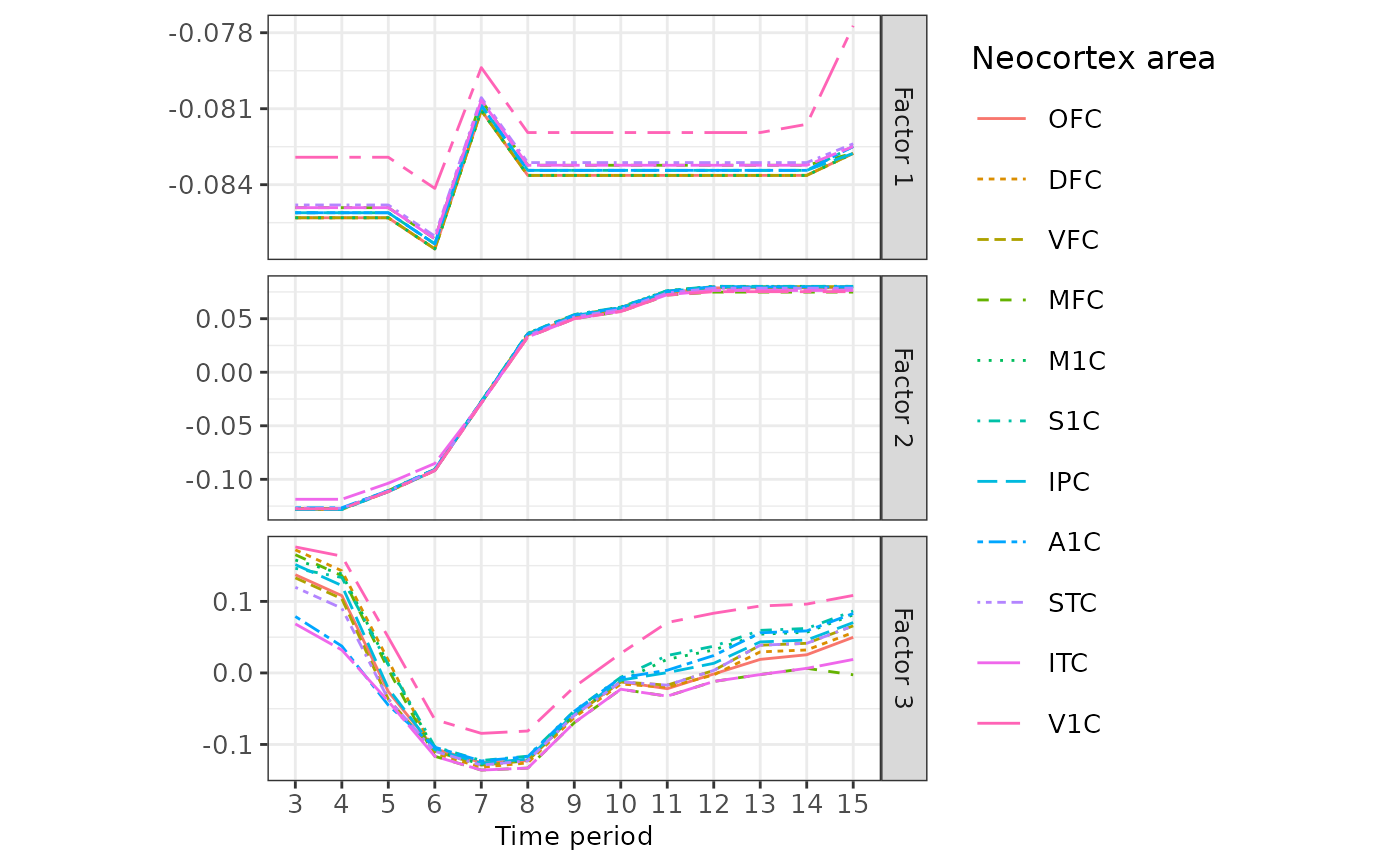
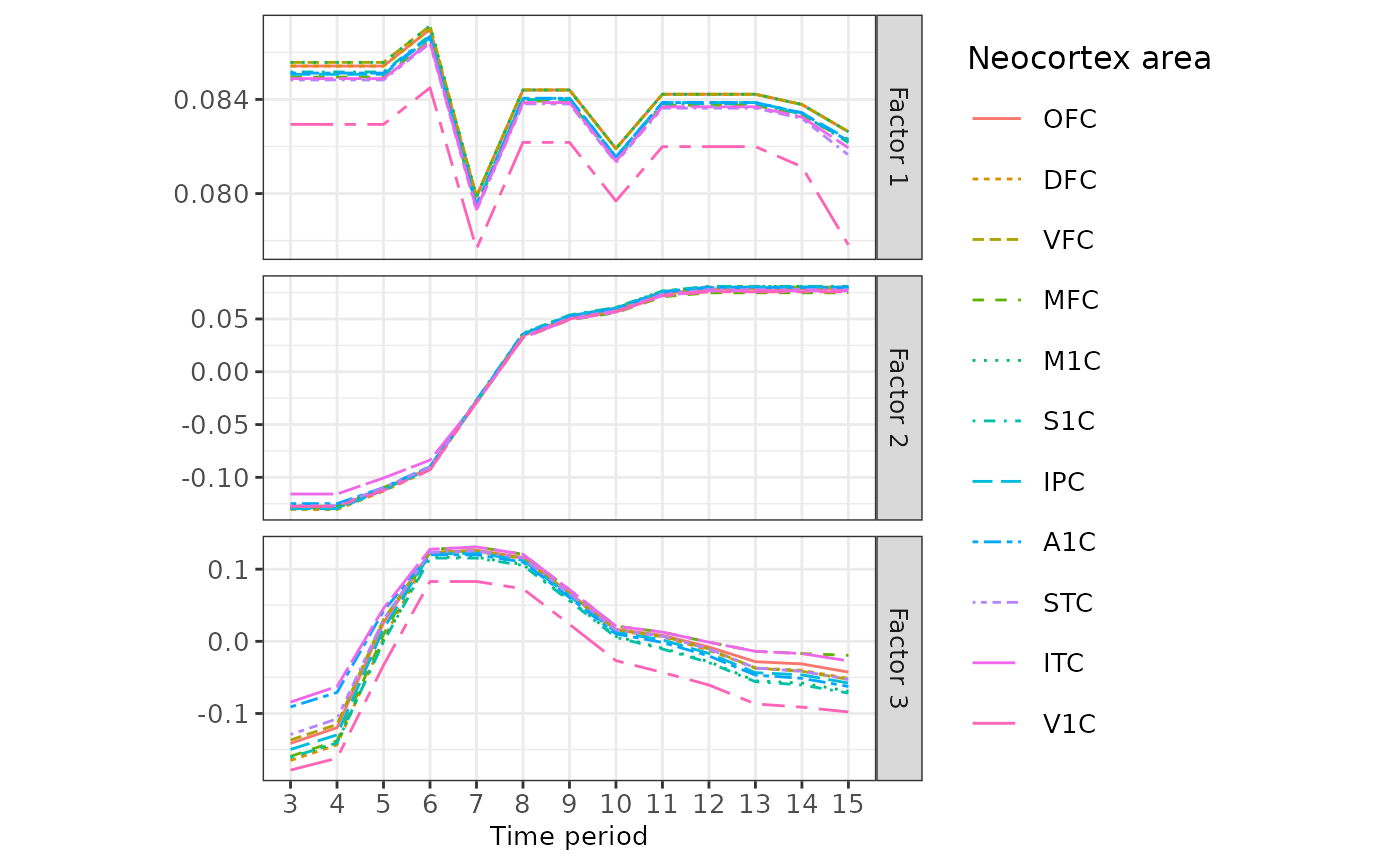
Deploying to gh-pages from @ YangLabHKUST/mfair@6f7311bef72ded86bc2f1662f6d9f4b15cdd251e 🚀

diff --git a/articles/neocortex.html b/articles/neocortex.html
@@ -134,15 +134,15 @@ to fit the MFAI model with top three factors.</p>
 <span><span class="co">#&gt; Set K_max = 3!</span></span>
 <span><span class="co">#&gt; Initialize the parameters of factor 1......</span></span>
 <span><span class="co">#&gt; After 3 iterations Stage 1 ends!</span></span>
-<span><span class="co">#&gt; After 18 iterations Stage 2 ends!</span></span>
+<span><span class="co">#&gt; After 812 iterations Stage 2 ends!</span></span>
 <span><span class="co">#&gt; Factor 1 retained!</span></span>
 <span><span class="co">#&gt; Initialize the parameters of factor 2......</span></span>
 <span><span class="co">#&gt; After 3 iterations Stage 1 ends!</span></span>
-<span><span class="co">#&gt; After 46 iterations Stage 2 ends!</span></span>
+<span><span class="co">#&gt; After 415 iterations Stage 2 ends!</span></span>
 <span><span class="co">#&gt; Factor 2 retained!</span></span>
 <span><span class="co">#&gt; Initialize the parameters of factor 3......</span></span>
 <span><span class="co">#&gt; After 2 iterations Stage 1 ends!</span></span>
-<span><span class="co">#&gt; After 600 iterations Stage 2 ends!</span></span>
+<span><span class="co">#&gt; After 131 iterations Stage 2 ends!</span></span>
 <span><span class="co">#&gt; Factor 3 retained!</span></span></code></pre></div>
 </div>
 <div class="section level2">
@@ -175,13 +175,13 @@ by <span class="math inline">\(\{ F_1 (\cdot) , F_2 (\cdot) , F_3
 <span><span class="fu"><a href="https://rdrr.io/r/base/colnames.html" class="external-link">colnames</a></span><span class="op">(</span><span class="va">FX</span><span class="op">)</span> <span class="op">&lt;-</span> <span class="fu"><a href="https://rdrr.io/r/base/c.html" class="external-link">c</a></span><span class="op">(</span><span class="st">"Neocortex area"</span>, <span class="st">"Time period"</span>, <span class="fu"><a href="https://rdrr.io/r/base/paste.html" class="external-link">paste</a></span><span class="op">(</span><span class="st">"Factor"</span>, <span class="fu"><a href="https://rdrr.io/r/base/c.html" class="external-link">c</a></span><span class="op">(</span><span class="fl">1</span><span class="op">:</span><span class="fl">3</span><span class="op">)</span><span class="op">)</span><span class="op">)</span></span>
 <span><span class="va">FX</span><span class="op">[</span>, <span class="st">"Time period"</span><span class="op">]</span> <span class="op">&lt;-</span> <span class="fu"><a href="https://rdrr.io/r/base/factor.html" class="external-link">factor</a></span><span class="op">(</span><span class="va">FX</span><span class="op">[</span>, <span class="st">"Time period"</span><span class="op">]</span>, levels <span class="op">=</span> <span class="va">stage</span><span class="op">)</span></span>
 <span><span class="fu"><a href="https://rdrr.io/r/utils/head.html" class="external-link">head</a></span><span class="op">(</span><span class="va">FX</span><span class="op">)</span></span>
-<span><span class="co">#&gt;   Neocortex area Time period    Factor 1   Factor 2  Factor 3</span></span>
-<span><span class="co">#&gt; 1            OFC           3 -0.08530621 -0.1275302 0.1373010</span></span>
-<span><span class="co">#&gt; 2            DFC           3 -0.08530621 -0.1281884 0.1720814</span></span>
-<span><span class="co">#&gt; 3            VFC           3 -0.08530621 -0.1279504 0.1329457</span></span>
-<span><span class="co">#&gt; 4            MFC           3 -0.08490720 -0.1272283 0.1652383</span></span>
-<span><span class="co">#&gt; 5            M1C           3 -0.08530621 -0.1277465 0.1578517</span></span>
-<span><span class="co">#&gt; 6            S1C           3 -0.08510786 -0.1277465 0.1462684</span></span></code></pre></div>
+<span><span class="co">#&gt;   Neocortex area Time period   Factor 1   Factor 2   Factor 3</span></span>
+<span><span class="co">#&gt; 1            OFC           3 0.08541967 -0.1276331 -0.1413521</span></span>
+<span><span class="co">#&gt; 2            DFC           3 0.08541967 -0.1304649 -0.1651130</span></span>
+<span><span class="co">#&gt; 3            VFC           3 0.08557500 -0.1288645 -0.1367970</span></span>
+<span><span class="co">#&gt; 4            MFC           3 0.08495108 -0.1271726 -0.1594441</span></span>
+<span><span class="co">#&gt; 5            M1C           3 0.08557500 -0.1288645 -0.1607997</span></span>
+<span><span class="co">#&gt; 6            S1C           3 0.08516765 -0.1288645 -0.1608590</span></span></code></pre></div>
 <div class="sourceCode" id="cb5"><pre class="downlit sourceCode r">
 <code class="sourceCode R"><span><span class="co"># Convert the wide table to the long table</span></span>
 <span><span class="va">FX_long</span> <span class="op">&lt;-</span> <span class="fu"><a href="https://rdrr.io/pkg/reshape2/man/melt.html" class="external-link">melt</a></span><span class="op">(</span></span>
@@ -190,13 +190,13 @@ by <span class="math inline">\(\{ F_1 (\cdot) , F_2 (\cdot) , F_3
 <span>  variable.name <span class="op">=</span> <span class="st">"Factor"</span>, value.name <span class="op">=</span> <span class="st">"F"</span></span>
 <span><span class="op">)</span></span>
 <span><span class="fu"><a href="https://rdrr.io/r/utils/head.html" class="external-link">head</a></span><span class="op">(</span><span class="va">FX_long</span><span class="op">)</span></span>
-<span><span class="co">#&gt;   Neocortex area Time period   Factor           F</span></span>
-<span><span class="co">#&gt; 1            OFC           3 Factor 1 -0.08530621</span></span>
-<span><span class="co">#&gt; 2            DFC           3 Factor 1 -0.08530621</span></span>
-<span><span class="co">#&gt; 3            VFC           3 Factor 1 -0.08530621</span></span>
-<span><span class="co">#&gt; 4            MFC           3 Factor 1 -0.08490720</span></span>
-<span><span class="co">#&gt; 5            M1C           3 Factor 1 -0.08530621</span></span>
-<span><span class="co">#&gt; 6            S1C           3 Factor 1 -0.08510786</span></span></code></pre></div>
+<span><span class="co">#&gt;   Neocortex area Time period   Factor          F</span></span>
+<span><span class="co">#&gt; 1            OFC           3 Factor 1 0.08541967</span></span>
+<span><span class="co">#&gt; 2            DFC           3 Factor 1 0.08541967</span></span>
+<span><span class="co">#&gt; 3            VFC           3 Factor 1 0.08557500</span></span>
+<span><span class="co">#&gt; 4            MFC           3 Factor 1 0.08495108</span></span>
+<span><span class="co">#&gt; 5            M1C           3 Factor 1 0.08557500</span></span>
+<span><span class="co">#&gt; 6            S1C           3 Factor 1 0.08516765</span></span></code></pre></div>
 <div class="sourceCode" id="cb6"><pre class="downlit sourceCode r">
 <code class="sourceCode R"><span><span class="co"># Visualization of F(.)</span></span>
 <span><span class="va">p</span> <span class="op">&lt;-</span> <span class="fu"><a href="https://ggplot2.tidyverse.org/reference/ggplot.html" class="external-link">ggplot</a></span><span class="op">(</span></span>
@@ -233,13 +233,13 @@ by <span class="math inline">\(\{ F_1 (\cdot) , F_2 (\cdot) , F_3
 <span><span class="fu"><a href="https://rdrr.io/r/base/colnames.html" class="external-link">rownames</a></span><span class="op">(</span><span class="va">gene_factors</span><span class="op">)</span> <span class="op">&lt;-</span> <span class="fu"><a href="https://rdrr.io/r/base/colnames.html" class="external-link">colnames</a></span><span class="op">(</span><span class="va">mfairObject</span><span class="op">@</span><span class="va">Y</span><span class="op">)</span> <span class="co"># Assign gene symbols</span></span>
 <span><span class="fu"><a href="https://rdrr.io/r/base/colnames.html" class="external-link">colnames</a></span><span class="op">(</span><span class="va">gene_factors</span><span class="op">)</span> <span class="op">&lt;-</span> <span class="fu"><a href="https://rdrr.io/r/base/paste.html" class="external-link">paste</a></span><span class="op">(</span><span class="st">"Factor"</span>, <span class="fu"><a href="https://rdrr.io/r/base/c.html" class="external-link">c</a></span><span class="op">(</span><span class="fl">1</span><span class="op">:</span><span class="fl">3</span><span class="op">)</span><span class="op">)</span></span>
 <span><span class="fu"><a href="https://rdrr.io/r/utils/head.html" class="external-link">head</a></span><span class="op">(</span><span class="va">gene_factors</span><span class="op">)</span></span>
-<span><span class="co">#&gt;            Factor 1    Factor 2    Factor 3</span></span>
-<span><span class="co">#&gt; DCUN1D2  0.07856363  0.06006969  0.16380535</span></span>
-<span><span class="co">#&gt; ARRB1   -0.27132066  0.06770678 -0.12942443</span></span>
-<span><span class="co">#&gt; PDE1B   -0.01294115  0.39845756  0.20161848</span></span>
-<span><span class="co">#&gt; PDE7B    0.01081660  0.41041139  0.52982200</span></span>
-<span><span class="co">#&gt; TOX     -0.11471109 -0.20478958  0.60887294</span></span>
-<span><span class="co">#&gt; LOXHD1   0.24888992  0.01732711 -0.03634836</span></span></code></pre></div>
+<span><span class="co">#&gt;           Factor 1   Factor 2   Factor 3</span></span>
+<span><span class="co">#&gt; DCUN1D2 -1.0973503  0.4754915 -0.4656469</span></span>
+<span><span class="co">#&gt; ARRB1    3.7897532  0.5357543  0.3688409</span></span>
+<span><span class="co">#&gt; PDE1B    0.1807724  3.1537716 -0.5730507</span></span>
+<span><span class="co">#&gt; PDE7B   -0.1510909  3.2482204 -1.5126715</span></span>
+<span><span class="co">#&gt; TOX      1.6022251 -1.6211513 -1.7326519</span></span>
+<span><span class="co">#&gt; LOXHD1  -3.4764486  0.1372477  0.1020409</span></span></code></pre></div>
 <div class="sourceCode" id="cb8"><pre class="downlit sourceCode r">
 <code class="sourceCode R"><span><span class="co"># Heatmap of the inferred gene factors</span></span>
 <span><span class="fu">pheatmap</span><span class="fu">::</span><span class="fu"><a href="https://rdrr.io/pkg/pheatmap/man/pheatmap.html" class="external-link">pheatmap</a></span><span class="op">(</span><span class="fu"><a href="https://rdrr.io/r/base/t.html" class="external-link">t</a></span><span class="op">(</span><span class="va">gene_factors</span><span class="op">)</span>,</span>

diff --git a/articles/ml100k.html b/articles/ml100k.html
@@ -123,17 +123,17 @@ proceed to fit the MFAI model with top three factors.</p>
 <span><span class="co">#&gt; Set K_max = 3!</span></span>
 <span><span class="co">#&gt; Initialize the parameters of factor 1......</span></span>
 <span><span class="co">#&gt; After 2 iterations Stage 1 ends!</span></span>
-<span><span class="co">#&gt; After 95 iterations Stage 2 ends!</span></span>
+<span><span class="co">#&gt; After 134 iterations Stage 2 ends!</span></span>
 <span><span class="co">#&gt; Factor 1 retained!</span></span>
 <span><span class="co">#&gt; Save the initializaiton information......</span></span>
 <span><span class="co">#&gt; Initialize the parameters of factor 2......</span></span>
 <span><span class="co">#&gt; After 2 iterations Stage 1 ends!</span></span>
-<span><span class="co">#&gt; After 181 iterations Stage 2 ends!</span></span>
+<span><span class="co">#&gt; After 338 iterations Stage 2 ends!</span></span>
 <span><span class="co">#&gt; Factor 2 retained!</span></span>
 <span><span class="co">#&gt; Save the initializaiton information......</span></span>
 <span><span class="co">#&gt; Initialize the parameters of factor 3......</span></span>
 <span><span class="co">#&gt; After 2 iterations Stage 1 ends!</span></span>
-<span><span class="co">#&gt; After 35 iterations Stage 2 ends!</span></span>
+<span><span class="co">#&gt; After 96 iterations Stage 2 ends!</span></span>
 <span><span class="co">#&gt; Factor 3 retained!</span></span>
 <span><span class="co">#&gt; Save the initializaiton information......</span></span></code></pre></div>
 </div>
@@ -216,15 +216,15 @@ permuting the entries of the corresponding column in the real genre data
 <span><span class="co">#&gt; Set K_max = 3!</span></span>
 <span><span class="co">#&gt; Use the user-specific initialization for factor 1......</span></span>
 <span><span class="co">#&gt; After 2 iterations Stage 1 ends!</span></span>
-<span><span class="co">#&gt; After 96 iterations Stage 2 ends!</span></span>
+<span><span class="co">#&gt; After 137 iterations Stage 2 ends!</span></span>
 <span><span class="co">#&gt; Factor 1 retained!</span></span>
 <span><span class="co">#&gt; Use the user-specific initialization for factor 2......</span></span>
 <span><span class="co">#&gt; After 2 iterations Stage 1 ends!</span></span>
-<span><span class="co">#&gt; After 176 iterations Stage 2 ends!</span></span>
+<span><span class="co">#&gt; After 318 iterations Stage 2 ends!</span></span>
 <span><span class="co">#&gt; Factor 2 retained!</span></span>
 <span><span class="co">#&gt; Use the user-specific initialization for factor 3......</span></span>
 <span><span class="co">#&gt; After 2 iterations Stage 1 ends!</span></span>
-<span><span class="co">#&gt; After 34 iterations Stage 2 ends!</span></span>
+<span><span class="co">#&gt; After 92 iterations Stage 2 ends!</span></span>
 <span><span class="co">#&gt; Factor 3 retained!</span></span></code></pre></div>
 <div class="sourceCode" id="cb7"><pre class="downlit sourceCode r">
 <code class="sourceCode R"><span><span class="co"># Get importance score</span></span>
@@ -284,15 +284,15 @@ MFAI model.</p>
 <span><span class="co">#&gt; Set K_max = 3!</span></span>
 <span><span class="co">#&gt; Use the user-specific initialization for factor 1......</span></span>
 <span><span class="co">#&gt; After 2 iterations Stage 1 ends!</span></span>
-<span><span class="co">#&gt; After 95 iterations Stage 2 ends!</span></span>
+<span><span class="co">#&gt; After 134 iterations Stage 2 ends!</span></span>
 <span><span class="co">#&gt; Factor 1 retained!</span></span>
 <span><span class="co">#&gt; Use the user-specific initialization for factor 2......</span></span>
 <span><span class="co">#&gt; After 2 iterations Stage 1 ends!</span></span>
-<span><span class="co">#&gt; After 181 iterations Stage 2 ends!</span></span>
+<span><span class="co">#&gt; After 338 iterations Stage 2 ends!</span></span>
 <span><span class="co">#&gt; Factor 2 retained!</span></span>
 <span><span class="co">#&gt; Use the user-specific initialization for factor 3......</span></span>
 <span><span class="co">#&gt; After 2 iterations Stage 1 ends!</span></span>
-<span><span class="co">#&gt; After 35 iterations Stage 2 ends!</span></span>
+<span><span class="co">#&gt; After 96 iterations Stage 2 ends!</span></span>
 <span><span class="co">#&gt; Factor 3 retained!</span></span></code></pre></div>
 <div class="sourceCode" id="cb9"><pre class="downlit sourceCode r">
 <code class="sourceCode R"><span><span class="co"># Get importance score</span></span>

diff --git a/reference/MFAIR-class.html b/reference/MFAIR-class.html
@@ -105,7 +105,7 @@
 
 
 <dt><code>K_max</code></dt>
-<dd><p>An integer. Note that increasing K_max does not ensure that the actual K also increases, since K_max is just an upper bound and the model will automatically infer K below K_max. If you want inference with larger rank K, please make sure that K_max is large enough and the tol_snr parameter in the fitting function <code><a href="fitGreedy.html">fitGreedy()</a></code> is small enough, simultaneously.</p></dd>
+<dd><p>An integer. Please note that increasing K_max does not ensure that the actual K also increases since K_max is just an upper bound, and the model will automatically infer K below K_max under the default setting. If you want to fit the model with larger rank K, please set the <code>null_check</code> argument as FALSE, or make sure that K_max is large enough and the <code>tol_snr</code> argument in the fitting function <code><a href="fitGreedy.html">fitGreedy()</a></code> is small enough simultaneously in the fitting function <code><a href="fitGreedy.html">fitGreedy()</a></code>.</p></dd>
 
 
 <dt><code>K</code></dt>

diff --git a/reference/fitSFFully.html b/reference/fitSFFully.html
@@ -64,7 +64,7 @@
 <span>  stage1 <span class="op">=</span> <span class="cn">TRUE</span>,</span>
 <span>  iter_max <span class="op">=</span> <span class="fl">5000</span>,</span>
 <span>  tol_stage1 <span class="op">=</span> <span class="fl">0.1</span>,</span>
-<span>  tol_stage2 <span class="op">=</span> <span class="fl">1e-06</span>,</span>
+<span>  tol_stage2 <span class="op">=</span> <span class="fl">1e-08</span>,</span>
 <span>  verbose_sf <span class="op">=</span> <span class="cn">TRUE</span>,</span>
 <span>  verbose_loop <span class="op">=</span> <span class="cn">TRUE</span>,</span>
 <span>  save_tree_list <span class="op">=</span> <span class="cn">TRUE</span></span>

diff --git a/reference/fitSFMissing.html b/reference/fitSFMissing.html
@@ -65,7 +65,7 @@
 <span>  stage1 <span class="op">=</span> <span class="cn">TRUE</span>,</span>
 <span>  iter_max <span class="op">=</span> <span class="fl">5000</span>,</span>
 <span>  tol_stage1 <span class="op">=</span> <span class="fl">0.1</span>,</span>
-<span>  tol_stage2 <span class="op">=</span> <span class="fl">1e-06</span>,</span>
+<span>  tol_stage2 <span class="op">=</span> <span class="fl">1e-08</span>,</span>
 <span>  verbose_sf <span class="op">=</span> <span class="cn">TRUE</span>,</span>
 <span>  verbose_loop <span class="op">=</span> <span class="cn">TRUE</span>,</span>
 <span>  save_tree_list <span class="op">=</span> <span class="cn">TRUE</span></span>

diff --git a/reference/fitSFSparse.html b/reference/fitSFSparse.html
@@ -65,7 +65,7 @@
 <span>  stage1 <span class="op">=</span> <span class="cn">TRUE</span>,</span>
 <span>  iter_max <span class="op">=</span> <span class="fl">5000</span>,</span>
 <span>  tol_stage1 <span class="op">=</span> <span class="fl">0.1</span>,</span>
-<span>  tol_stage2 <span class="op">=</span> <span class="fl">1e-06</span>,</span>
+<span>  tol_stage2 <span class="op">=</span> <span class="fl">1e-08</span>,</span>
 <span>  verbose_sf <span class="op">=</span> <span class="cn">TRUE</span>,</span>
 <span>  verbose_loop <span class="op">=</span> <span class="cn">TRUE</span>,</span>
 <span>  save_tree_list <span class="op">=</span> <span class="cn">TRUE</span></span>
